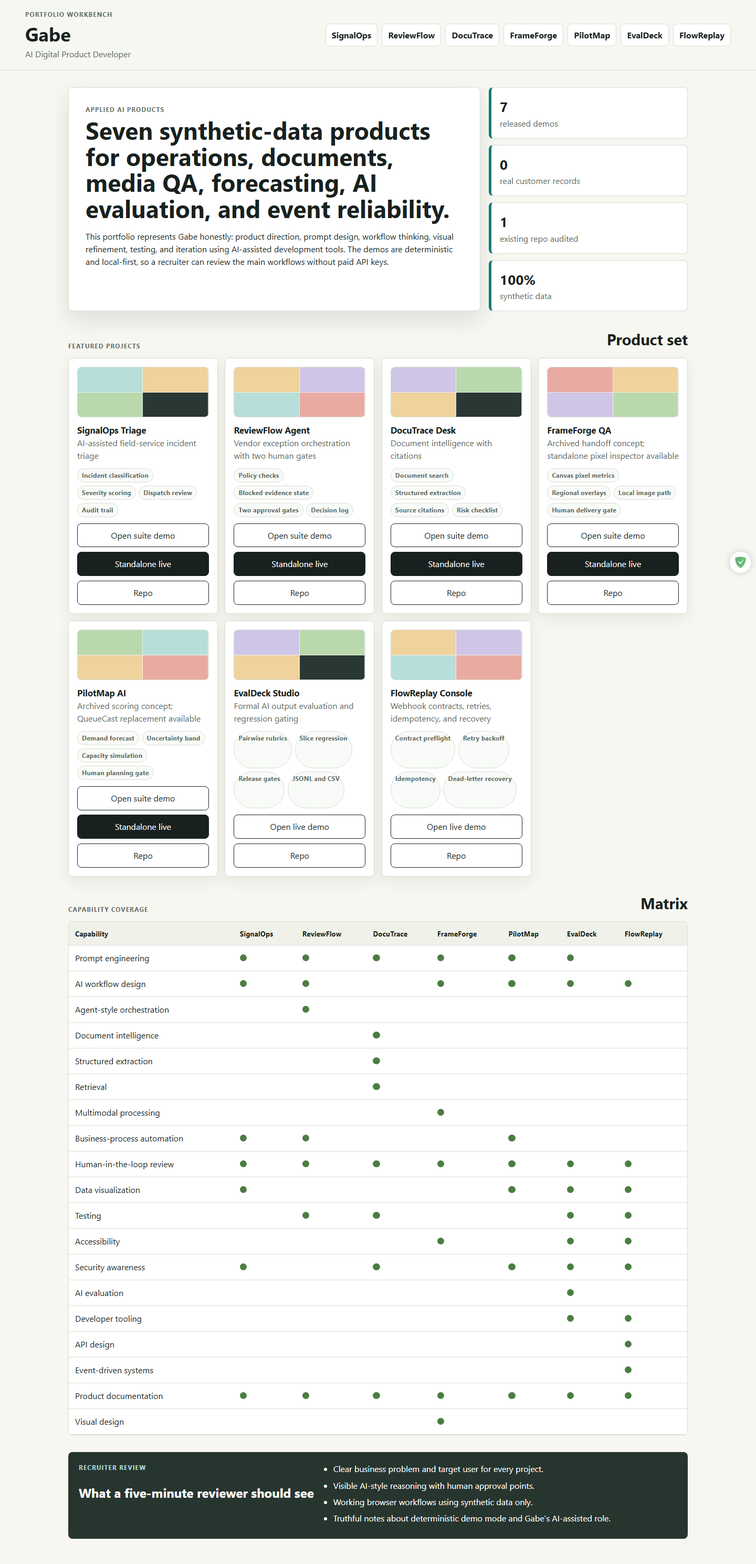
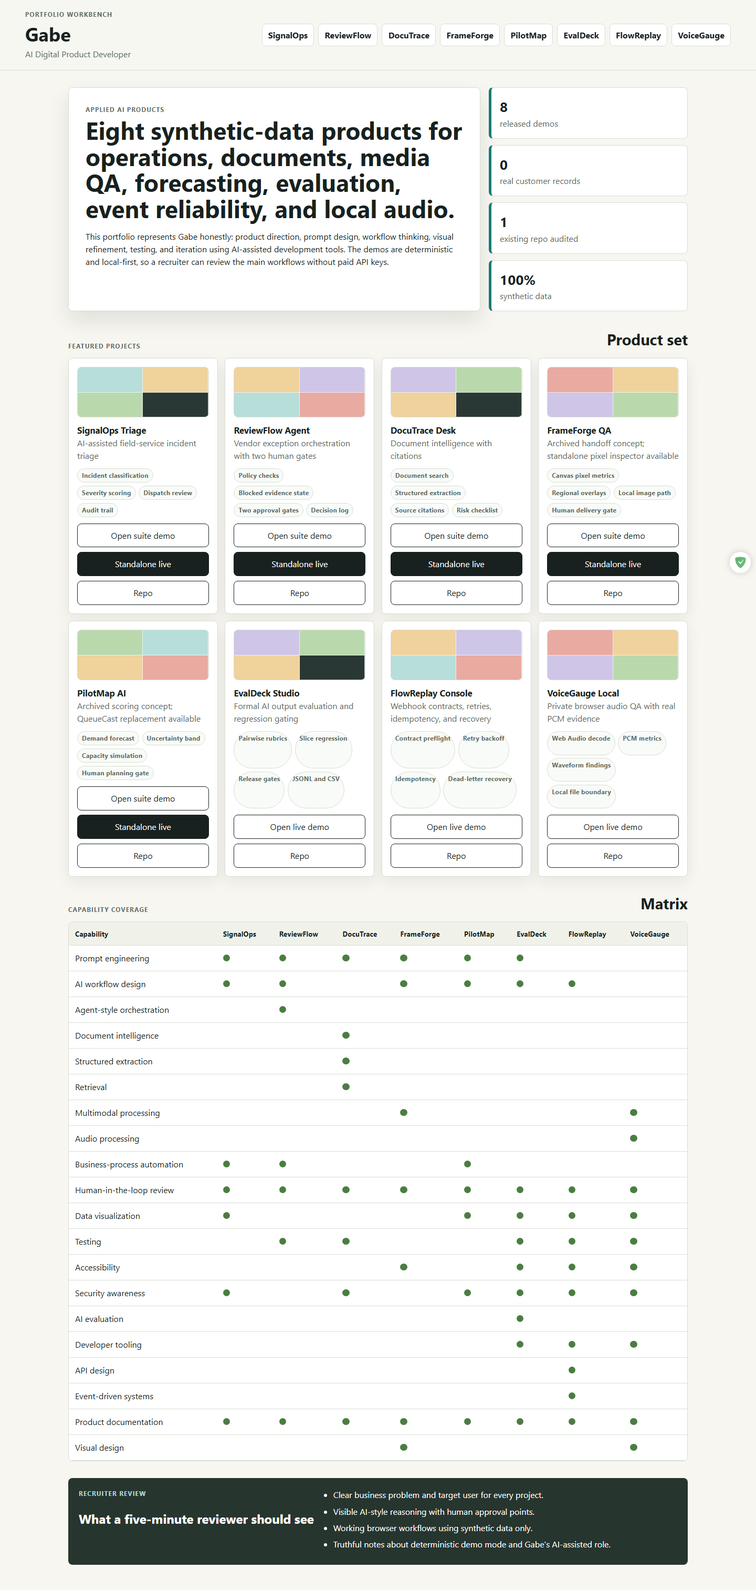
feat: integrate VoiceGauge into portfolio

diff --git a/index.html b/index.html
@@ -4,7 +4,7 @@
   <meta charset="utf-8">
   <meta name="viewport" content="width=device-width, initial-scale=1">
   <title>Gabe - AI Digital Product Developer</title>
-  <meta name="description" content="Seven truthful AI-assisted digital product demos spanning operations, documents, media QA, forecasting, evaluation, and event reliability.">
+  <meta name="description" content="Eight truthful AI-assisted digital product demos spanning operations, documents, media, forecasting, evaluation, event reliability, and local audio QA.">
   <link rel="stylesheet" href="assets/styles.css">
 </head>
 <body data-page="portfolio">
@@ -23,6 +23,7 @@
       <a href="projects/pilotmap-ai/index.html">PilotMap</a>
       <a href="https://jubjub-cpu.github.io/evaldeck-studio/">EvalDeck</a>
       <a href="https://jubjub-cpu.github.io/flowreplay-console/">FlowReplay</a>
+      <a href="https://jubjub-cpu.github.io/voicegauge-local/">VoiceGauge</a>
     </nav>
   </header>
 
@@ -30,14 +31,14 @@
     <section class="intro-grid" aria-labelledby="portfolio-title">
       <div class="intro-copy">
         <p class="eyebrow">Applied AI products</p>
-        <h2 id="portfolio-title">Seven synthetic-data products for operations, documents, media QA, forecasting, AI evaluation, and event reliability.</h2>
+        <h2 id="portfolio-title">Eight synthetic-data products for operations, documents, media QA, forecasting, evaluation, event reliability, and local audio.</h2>
         <p>
           This portfolio represents Gabe honestly: product direction, prompt design, workflow thinking, visual refinement, testing, and iteration using AI-assisted development tools.
           The demos are deterministic and local-first, so a recruiter can review the main workflows without paid API keys.
         </p>
       </div>
       <div class="audit-strip" aria-label="Portfolio audit summary">
-        <div><strong>7</strong><span>released demos</span></div>
+        <div><strong>8</strong><span>released demos</span></div>
         <div><strong>0</strong><span>real customer records</span></div>
         <div><strong>1</strong><span>existing repo audited</span></div>
         <div><strong>100%</strong><span>synthetic data</span></div>

diff --git a/assets/portfolio.js b/assets/portfolio.js
@@ -9,6 +9,7 @@
     "Structured extraction",
     "Retrieval",
     "Multimodal processing",
+    "Audio processing",
     "Business-process automation",
     "Human-in-the-loop review",
     "Data visualization",
@@ -135,6 +136,22 @@
       oversight: "No endpoint is contacted; a human must provide a recovery reason before the simulated replay is recorded.",
       features: ["Contract preflight", "Retry backoff", "Idempotency", "Dead-letter recovery"],
       capabilities: ["AI workflow design", "Human-in-the-loop review", "Data visualization", "Testing", "Accessibility", "Security awareness", "Developer tooling", "API design", "Event-driven systems", "Product documentation"]
+    },
+    voicegauge: {
+      name: "VoiceGauge Local",
+      shortName: "VoiceGauge",
+      subtitle: "Private browser audio QA with real PCM evidence",
+      path: "https://jubjub-cpu.github.io/voicegauge-local/",
+      pathLabel: "Open live demo",
+      standaloneRepo: "https://github.com/jubjub-cpu/voicegauge-local",
+      standaloneRelease: "https://github.com/jubjub-cpu/voicegauge-local/releases/tag/v1.0.0",
+      accent: "coral",
+      problem: "Audio teams need an immediate first pass for clipping, level, silence, and background signal without uploading sensitive recordings.",
+      user: "Content operations teams, media producers, contact-center QA leads, accessibility teams, and creators",
+      ai: "Decodes actual audio locally, measures six transparent PCM metrics, maps timed waveform findings, and compares the source with a generated clear baseline.",
+      oversight: "No transcription or identity inference runs; accepting audio with findings requires written human evidence.",
+      features: ["Web Audio decode", "PCM metrics", "Waveform findings", "Local file boundary"],
+      capabilities: ["Multimodal processing", "Audio processing", "Human-in-the-loop review", "Data visualization", "Testing", "Accessibility", "Security awareness", "Developer tooling", "Product documentation", "Visual design"]
     }
   };
 

diff --git a/docs/FINAL_PORTFOLIO_REPORT.md b/docs/FINAL_PORTFOLIO_REPORT.md
@@ -2,7 +2,7 @@
 
 ## Executive Summary
 
-The five-project foundation is complete and the portfolio has expanded to seven released products with EvalDeck Studio and FlowReplay Console, the first two Phase Two releases. The published work includes runnable synthetic-data demos, central documentation, a capability matrix, case studies, validation checks, screenshots, closed milestone issues, and versioned GitHub releases.
+The five-project foundation is complete and the portfolio has expanded to eight released products with EvalDeck Studio, FlowReplay Console, and VoiceGauge Local, the first three Phase Two releases. The published work includes runnable synthetic-data demos, central documentation, a capability matrix, case studies, validation checks, screenshots, closed milestone issues, and versioned GitHub releases.
 
 ## Gabe's Portfolio Positioning
 
@@ -19,6 +19,7 @@ Gabe is positioned as an AI Digital Product Developer who uses AI-assisted devel
 | QueueCast Planner | [Archived PilotMap concept](https://jubjub-cpu.github.io/gabe-ai-product-portfolio/projects/pilotmap-ai/) / [Standalone demo](https://jubjub-cpu.github.io/queuecast-planner/) | Service teams need uncertainty-aware capacity scenarios. | Workforce planners | Trend forecast, residual uncertainty, five-assumption simulation, weekly risk, staffing brief, human decision. | Static HTML/CSS/JS and Canvas | Logic, repository, local browser, and deployed browser checks passed | Standalone v1.0.0 published |
 | EvalDeck Studio | [Standalone demo](https://jubjub-cpu.github.io/evaldeck-studio/) | AI product changes need repeatable quality and safety evidence before release. | AI product engineers and QA leads | Pairwise rubric scoring, slice regressions, reference disagreement, configurable gates, reasoned overrides, portable artifacts. | Static HTML/CSS/JS and Canvas | Logic, import/export, repository, local browser, and deployed browser checks passed | Standalone v1.0.0 published |
 | FlowReplay Console | [Standalone demo](https://jubjub-cpu.github.io/flowreplay-console/) | Webhook failures need visible contract, retry, duplicate, and recovery evidence. | API product engineers and integration developers | Versioned contract preflight, retry/backoff, failure injection, idempotent no-ops, dead-letter recovery, human replay approval. | Static HTML/CSS/JS and Canvas | Engine, import/export, repository, local browser, and deployed browser checks passed | Standalone v1.0.0 published |
+| VoiceGauge Local | [Standalone demo](https://jubjub-cpu.github.io/voicegauge-local/) | Audio teams need a private first pass for clipping, silence, level, and background signal. | Content QA leads, producers, and creators | Real Web Audio decoding, PCM metrics, waveform findings, threshold policy, baseline comparison, local import, human handoff decision. | Static HTML/CSS/JS, Web Audio, and Canvas | Engine, generated fixtures, import/export, repository, local browser, and deployed browser checks passed | Standalone v1.0.0 published |
 
 ## Capability Matrix
 
@@ -37,15 +38,15 @@ The profile README links to the live portfolio and truthfully describes Gabe's A
 1. `gabe-ai-product-portfolio`
 2. `evaldeck-studio`
 3. `flowreplay-console`
-4. `doctrace-desk`
-5. `frameforge-inspect`
-6. `queuecast-planner`
+4. `voicegauge-local`
+5. `doctrace-desk`
+6. `frameforge-inspect`
 
 ## Testing Summary
 
 - `PORTFOLIO VALIDATION PASSED`
 - Browser render checks passed.
-- Interaction checks passed for all five suite workflows plus EvalDeck's regression workflow and FlowReplay's event-recovery workflow.
+- Interaction checks passed for all five suite workflows plus EvalDeck's regression, FlowReplay's event-recovery, and VoiceGauge's local audio workflows.
 - Mobile central portfolio check passed at 390 px.
 - No browser console errors observed.
 
@@ -103,6 +104,10 @@ Standalone FlowReplay Console deployment: https://jubjub-cpu.github.io/flowrepla
 
 Standalone FlowReplay Console release: https://github.com/jubjub-cpu/flowreplay-console/releases/tag/v1.0.0
 
+Standalone VoiceGauge Local deployment: https://jubjub-cpu.github.io/voicegauge-local/
+
+Standalone VoiceGauge Local release: https://github.com/jubjub-cpu/voicegauge-local/releases/tag/v1.0.0
+
 ## Privacy and Security Summary
 
 All product data is fictional or synthetic. No real customer records, payment-card records, credentials, private communications, employee data, or production logs are included. The validation script scans for common secret patterns.
@@ -111,7 +116,7 @@ All product data is fictional or synthetic. No real customer records, payment-ca
 
 - Pin `gabe-ai-product-portfolio` on the GitHub profile manually. The available GitHub GraphQL schema did not expose a repository-pinning mutation in this environment.
 - Apply the six-repository recommendation in `docs/PORTFOLIO_STRATEGY.md` manually; repository pinning is not exposed by the available API.
-- Build the remaining three selected Phase Two products in `PHASE_TWO_CANDIDATES.md`.
+- Build the remaining two selected Phase Two products in `PHASE_TWO_CANDIDATES.md`.
 
 ## Next Projects
 
@@ -119,4 +124,4 @@ See `NEXT_5_PROJECTS.md`.
 
 ## Suggested Next Career Step
 
-Use the central portfolio plus EvalDeck, FlowReplay, DocuTrace, and FrameForge to apply for AI product, evaluation, developer tooling, workflow automation, document intelligence, and operations-focused prototype roles while continuing Phase Two.
+Use the central portfolio plus EvalDeck, FlowReplay, VoiceGauge, and DocuTrace to apply for AI product, evaluation, developer tooling, media intelligence, workflow automation, and document intelligence roles while continuing Phase Two.

diff --git a/README.md b/README.md
@@ -1,6 +1,6 @@
 # Gabe - AI Digital Product Developer Portfolio
 
-This portfolio features seven complete, local-first AI digital products that show practical workflow design, prompt-shaped reasoning, formal evaluation, event reliability, human review, synthetic data, and recruiter-friendly product documentation.
+This portfolio features eight complete, local-first AI digital products that show practical workflow design, prompt-shaped reasoning, formal evaluation, event reliability, real browser media processing, human review, synthetic data, and recruiter-friendly product documentation.
 
 ## Overview
 
@@ -19,6 +19,7 @@ The portfolio does not claim traditional software engineering employment, produc
 | QueueCast Planner | Service teams need visible demand uncertainty and capacity tradeoffs before staffing decisions. | Explainable trend, uncertainty band, five-assumption simulation, weekly risk, staffing brief, human planning gate. | [Archived PilotMap concept](https://jubjub-cpu.github.io/gabe-ai-product-portfolio/projects/pilotmap-ai/) / [Standalone](https://jubjub-cpu.github.io/queuecast-planner/) |
 | EvalDeck Studio | AI product teams need repeatable evidence before prompt or model changes ship. | Four pairwise rubrics, slice regressions, reference disagreement, configurable gates, reasoned overrides, JSONL/JSON/CSV artifacts. | [Standalone](https://jubjub-cpu.github.io/evaldeck-studio/) |
 | FlowReplay Console | Integration teams need to distinguish contract drift, transient failures, duplicates, and dead-letter recovery before replaying webhooks. | Versioned contracts, response classification, retry backoff, failure injection, idempotent no-ops, reasoned replay approval, JSON evidence. | [Standalone](https://jubjub-cpu.github.io/flowreplay-console/) |
+| VoiceGauge Local | Audio teams need a private first pass for clipping, level, silence, and background signal. | Real Web Audio decoding, six PCM metrics, timed Canvas findings, baseline comparison, local upload, threshold policy, human handoff gate. | [Standalone](https://jubjub-cpu.github.io/voicegauge-local/) |
 
 ## Business Problem
 
@@ -34,7 +35,7 @@ Each demo uses deterministic browser logic to simulate AI-style workflow support
 
 ## Main Features
 
-- Seven released product demos with synthetic data.
+- Eight released product demos with synthetic data.
 - Central portfolio page with project cards and capability matrix.
 - Human-in-the-loop review points in every product.
 - Recruiter-facing documentation, roadmap, scorecard, state tracking, blocker tracking, and case studies.
@@ -82,6 +83,10 @@ Current screenshots captured from the implemented local app:
 ![Standalone FlowReplay desktop](docs/screenshots/flowreplay-standalone-desktop.png)
 
 ![Standalone FlowReplay mobile](docs/screenshots/flowreplay-standalone-mobile.png)
+
+![Standalone VoiceGauge desktop](docs/screenshots/voicegauge-standalone-desktop.png)
+
+![Standalone VoiceGauge mobile](docs/screenshots/voicegauge-standalone-mobile.png)
 
 ![Mobile portfolio](docs/screenshots/portfolio-mobile.png)
 
@@ -145,6 +150,12 @@ Standalone FlowReplay Console:
 - [Repository](https://github.com/jubjub-cpu/flowreplay-console)
 - [v1.0.0 release](https://github.com/jubjub-cpu/flowreplay-console/releases/tag/v1.0.0)
 
+Standalone VoiceGauge Local:
+
+- [Live demo](https://jubjub-cpu.github.io/voicegauge-local/)
+- [Repository](https://github.com/jubjub-cpu/voicegauge-local)
+- [v1.0.0 release](https://github.com/jubjub-cpu/voicegauge-local/releases/tag/v1.0.0)
+
 Local fallback:
 
 ```text
@@ -162,6 +173,7 @@ The demos show AI product patterns without pretending a paid model is running:
 - Responsible AI opportunity scoring.
 - Formal AI-output evaluation, regression analysis, and release gating.
 - API contracts, event retries, idempotency, failure injection, and dead-letter recovery.
+- Web Audio decoding, PCM signal analysis, waveform overlays, and local audio privacy.
 
 ## Human Oversight
 
@@ -242,12 +254,12 @@ powershell -ExecutionPolicy Bypass -File .\tests\portfolio-validation.ps1
 Latest local validation:
 
 - `PORTFOLIO VALIDATION PASSED`
-- Browser smoke test: all five suite workflows plus the EvalDeck and FlowReplay integrations rendered.
+- Browser smoke test: all five suite workflows plus the EvalDeck, FlowReplay, and VoiceGauge integrations rendered.
 - Interaction test: SignalOps approval, ReviewFlow approval, DocuTrace citations, FrameForge revision review, and PilotMap scoring all responded.
-- Mobile check: central portfolio rendered with seven project cards at 390 px width.
+- Mobile check: central portfolio rendered with eight project cards at 390 px width.
 - Browser console errors: none observed.
 
-The repeatable browser integration check verifies the seven-card desktop and mobile layouts plus the standalone foundation, EvalDeck, and FlowReplay public links.
+The repeatable browser integration check verifies the eight-card desktop and mobile layouts plus the standalone foundation, EvalDeck, FlowReplay, and VoiceGauge public links.
 
 ## Deployment
 
@@ -272,7 +284,7 @@ The recruiter-review path does not require a backend or paid API.
 ## Future Improvements
 
 - Add optional bring-your-own-key AI integrations.
-- Build the remaining three selected Phase Two products in `PHASE_TWO_CANDIDATES.md`.
+- Build the remaining two selected Phase Two products in `PHASE_TWO_CANDIDATES.md`.
 - Add live API-backed variants only when privacy, cost, and security boundaries are clear.
 
 ## AI-Assisted Development

diff --git a/PROJECT_NOVELTY_MATRIX.md b/PROJECT_NOVELTY_MATRIX.md
@@ -15,6 +15,7 @@ This matrix compares the completed foundation, released Phase Two products, and 
 | QueueCast Planner, standalone replacement | Service teams need honest staffing scenarios under uncertain demand | Service operations | Workforce planner | Forecast demand, adjust five assumptions, compare weekly risk, adopt scenario | Time-series demand and aggregate staffing assumptions | Trend forecast, residual uncertainty, scenario simulation | Capacity range, risk weeks, staffing brief, JSON record | Interactive planning board with Canvas chart | Modular deterministic browser simulation | GitHub Pages | Planner owns staffing decision | Logic, Canvas, local and deployed browser checks | Quantitative decision support and uncertainty |
 | EvalDeck Studio, standalone | Prompt or model changes can hide regressions | AI quality engineering | AI product engineer and QA lead | Load suite, compare outputs, inspect rubrics and slices, resolve disagreement, apply gate, decide release | JSONL prompts, outputs, rules, and reference scores | Deterministic pairwise evaluation and regression analysis | Rubric evidence, slice metrics, gate decision, JSON and CSV reports | Evaluation table, diff workbench, and aggregate chart | Modular local-first static app | GitHub Pages | Reasoned override and final release approval | Logic, import/export, local and deployed browser checks | Formal evaluation and developer tooling |
 | FlowReplay Console, standalone | Webhook failures hide contract, retry, and duplicate-side-effect risk | Developer infrastructure | API product engineer and integration developer | Inspect event, validate contract, inject failure, model retries, approve replay, review audit | Synthetic event JSON, versioned contracts, endpoints, attempts, and idempotency keys | Contract preflight, response classification, retry/backoff simulation, idempotency, replay planning | Attempt evidence, terminal outcome, HTTP preview, replay event, JSON report | Event rail, Canvas timeline, evidence tabs, replay builder, contract registry | Modular local-first static app | GitHub Pages | Recovery reason and explicit replay approval | Engine, import/export, Canvas, local and deployed browser checks | API design and event-driven developer tooling |
+| VoiceGauge Local, standalone | Audio defects need a private first pass before handoff | Media operations | Content QA lead, producer, and creator | Decode source, inspect metrics and waveform, compare baseline, tune policy, decide handoff | Generated WAV fixtures or local browser-supported audio | Real local PCM analysis with deterministic quality findings | Six metrics, timed overlays, baseline deltas, human decision, JSON report | Audio library, native player, Canvas waveform, policy controls, comparison table | Modular local-first static app with Web Audio | GitHub Pages | Written evidence for accepted findings and explicit re-record action | Engine, fixture, Web Audio, import/export, Canvas, local and deployed browser checks | Audio processing and privacy-first multimodal work |
 
 ## Closest-Project Checks
 

diff --git a/PORTFOLIO_CAPABILITY_LEDGER.md b/PORTFOLIO_CAPABILITY_LEDGER.md
@@ -13,7 +13,7 @@ Status key: **Strong** = implemented and directly testable; **Partial** = visibl
 | Agent-style orchestration | Partial | Missing | Strong | Missing | Missing | Strong |
 | Human approval | Strong | Strong | Strong | Strong | Partial | Strong |
 | Computer vision | Missing | Missing | Missing | Strong | Missing | Strong |
-| Audio processing | Missing | Missing | Missing | Missing | Missing | Missing |
+| Audio processing | Missing | Missing | Missing | Missing | Missing | Strong via VoiceGauge |
 | Semantic search | Missing | Mentioned | Missing | Missing | Missing | Mentioned |
 | Forecasting | Missing | Missing | Missing | Missing | Strong | Strong |
 | Anomaly detection | Partial | Missing | Missing | Missing | Missing | Partial |
@@ -39,7 +39,7 @@ Status key: **Strong** = implemented and directly testable; **Partial** = visibl
 | FrameForge Inspect | Rebuilt substantially | Standalone v1.0.0 with actual Canvas pixel metrics, generated PNG fixtures, regional overlays, local file processing, comparison, human decision, export, and deployed tests |
 | QueueCast Planner | Replaced PilotMap | Standalone v1.0.0 with trend forecasting, residual uncertainty, five scenario assumptions, weekly capacity risk, Canvas visualization, human adoption, export, and deployed tests |
 
-The remaining Phase Two wave must add audio, anomaly detection, background monitoring, and privacy-preserving processing; evaluation, developer tooling, and API/event-system gaps are now covered.
+The remaining Phase Two wave must add anomaly detection, background monitoring, and privacy-preserving text processing; evaluation, developer tooling, API/event systems, and audio gaps are now covered.
 
 ## Phase Two Evidence
 
@@ -47,3 +47,4 @@ The remaining Phase Two wave must add audio, anomaly detection, background monit
 | --- | --- | --- |
 | EvalDeck Studio | Formal AI-output evaluation, developer tooling, pairwise regression, slice metrics, disagreement review, release gates, JSONL import, JSON/CSV artifacts | Standalone v1.0.0 with logic, repository, local browser, deployed browser, privacy, accessibility, screenshot, issue, and release evidence |
 | FlowReplay Console | Versioned webhook contracts, response classification, retries and backoff, deterministic failure injection, idempotency, dead-letter recovery, replay audit, local JSON artifacts | Standalone v1.0.0 with engine, repository, local browser, deployed browser, Canvas, privacy, accessibility, screenshot, issue, and release evidence |
+| VoiceGauge Local | Real Web Audio decoding, generated WAV fixtures, PCM peak/RMS/clipping/silence/quiet-floor/pause metrics, Canvas overlays, baseline comparison, local import, human delivery gate | Standalone v1.0.0 with audio engine, fixture generation, repository, local browser, deployed browser, content-type, privacy, accessibility, screenshot, issue, and release evidence |

diff --git a/PORTFOLIO_STATE.md b/PORTFOLIO_STATE.md
@@ -4,13 +4,13 @@
 | --- | --- |
 | Current phase | Phase Two: net-new expansion wave |
 | Current expansion wave | Five selected products after twelve-candidate scoring |
-| Current project | VoiceGauge Local |
-| Current repository | Central: `jubjub-cpu/gabe-ai-product-portfolio`; next planned: `jubjub-cpu/voicegauge-local` |
+| Current project | ColdChain Sentinel |
+| Current repository | Central: `jubjub-cpu/gabe-ai-product-portfolio`; next planned: `jubjub-cpu/coldchain-sentinel` |
 | Current branch | `main` |
-| Current issue | VoiceGauge kickoff issue is the next GitHub milestone |
-| Last completed action | Released FlowReplay Console with versioned contracts, retries, failure injection, idempotency, dead-letter recovery, deployed tests, and issues 1-3 closed |
-| Tests last run | FlowReplay standalone checks passed; central seven-card validation, desktop/mobile browser, overflow, console, request, screenshot, and privacy checks passed locally |
+| Current issue | ColdChain kickoff issue is the next GitHub milestone |
+| Last completed action | Released VoiceGauge Local with generated WAVs, real Web Audio decoding, PCM metrics, waveform findings, local import, human gate, deployed tests, and issues 1-3 closed |
+| Tests last run | VoiceGauge standalone checks passed; central eight-card validation, desktop/mobile browser, overflow, console, request, screenshot, and privacy checks passed locally |
 | Active failures | None |
 | Active blocker | Optional GitHub Actions workflow cannot be added with the current token because it lacks workflow scope; checked-in local and deployed validation remains available |
-| Uncommitted changes | None after the FlowReplay integration checkpoint is committed |
-| Exact next action | Publish and verify the FlowReplay integration, then create `jubjub-cpu/voicegauge-local` and its kickoff issue |
+| Uncommitted changes | None after the VoiceGauge integration checkpoint is committed |
+| Exact next action | Publish and verify the VoiceGauge integration, then create `jubjub-cpu/coldchain-sentinel` and its kickoff issue |

diff --git a/docs/GITHUB_PROFILE_README.md b/docs/GITHUB_PROFILE_README.md
@@ -22,6 +22,8 @@ My current focus is AI-assisted development, prompt engineering, workflow design
 - **EvalDeck Repository:** https://github.com/jubjub-cpu/evaldeck-studio
 - **Standalone FlowReplay:** https://jubjub-cpu.github.io/flowreplay-console/
 - **FlowReplay Repository:** https://github.com/jubjub-cpu/flowreplay-console
+- **Standalone VoiceGauge:** https://jubjub-cpu.github.io/voicegauge-local/
+- **VoiceGauge Repository:** https://github.com/jubjub-cpu/voicegauge-local
 
 | Project | What It Demonstrates |
 | --- | --- |
@@ -32,6 +34,7 @@ My current focus is AI-assisted development, prompt engineering, workflow design
 | QueueCast Planner | Explainable demand forecasting, residual uncertainty, five-assumption capacity simulation, weekly risk, and a human planning gate. |
 | EvalDeck Studio | Formal AI-output evaluation with pairwise rubrics, slice regressions, reference disagreement, configurable release gates, and reasoned human overrides. |
 | FlowReplay Console | Webhook reliability tooling with versioned contracts, retry/backoff simulation, failure injection, idempotent no-ops, dead-letter recovery, and a human replay gate. |
+| VoiceGauge Local | Privacy-first Web Audio QA with generated WAV fixtures, six real PCM metrics, waveform findings, baseline comparison, local import, and a human handoff gate. |
 
 ## AI Patterns
 
@@ -48,6 +51,7 @@ My current focus is AI-assisted development, prompt engineering, workflow design
 - AI evaluation, regression analysis, and release gating
 - Local-first developer tooling and portable evaluation artifacts
 - API contracts, event-driven retries, idempotency, and dead-letter recovery
+- Web Audio, local PCM analysis, waveform visualization, and privacy-first media processing
 
 ## Current Learning Focus
 

diff --git a/DECISIONS.md b/DECISIONS.md
@@ -17,3 +17,4 @@
 | 2026-07-17 | QueueCast | Release QueueCast Planner as v1.0.0 and preserve PilotMap only as an embedded archive. | Expand generic opportunity scoring; add another recommendation workflow. | QueueCast adds transparent forecasting, uncertainty, capacity simulation, quantitative visualization, and staffing tradeoffs without worker data or employment actions. | Phase One is complete; Phase Two candidate scoring begins immediately. |
 | 2026-07-18 | EvalDeck | Release EvalDeck Studio as the first Phase Two product. | Start with event tooling; use a hosted judge model. | A deterministic evaluator makes formal rubrics, regressions, slice failures, disagreement, overrides, and release policy observable without API cost or customer outputs. | Phase Two is 1 of 5 complete; FlowReplay Console becomes next. |
 | 2026-07-17 | FlowReplay | Release FlowReplay Console as the second Phase Two product. | Build a generic API request tester; connect to live endpoints. | Versioned contracts, retry classes, backoff, failure injection, idempotent no-ops, and reasoned dead-letter recovery show event-system judgment without credentials or production traffic. | Phase Two is 2 of 5 complete; VoiceGauge Local becomes next. |
+| 2026-07-17 | VoiceGauge | Release VoiceGauge Local as the third Phase Two product without transcription. | Use stock voice clips; call a hosted speech API. | Generated WAVs plus real browser decoding make audio processing testable while avoiding voice privacy, biometric, and model-cost claims. | Phase Two is 3 of 5 complete; ColdChain Sentinel becomes next. |

diff --git a/PHASE_TWO_CANDIDATES.md b/PHASE_TWO_CANDIDATES.md
@@ -6,7 +6,7 @@ Scoring dimensions are business clarity, novelty versus the foundation, missing-
 | --- | --- | --- | --- | --- | ---: | ---: | ---: | ---: | ---: | ---: | ---: | --- |
 | EvalDeck Studio | AI quality engineering | JSONL prompts and outputs | Evaluation table and diff | Rubrics, pairwise evaluation, regression suites | 5 | 5 | 5 | 5 | 5 | 5 | 30 | Complete: v1.0.0 |
 | FlowReplay Console | Developer infrastructure | Webhook events and API schemas | Event timeline and contract console | API design, replay, idempotency, failure injection | 5 | 5 | 5 | 4 | 5 | 5 | 29 | Complete: v1.0.0 |
-| VoiceGauge Local | Customer-support QA | Local audio waveform | Waveform timeline | Audio processing, privacy, silence and clipping analysis | 5 | 5 | 5 | 4 | 5 | 5 | 29 | Select 3 |
+| VoiceGauge Local | Customer-support QA | Local audio waveform | Waveform timeline | Audio processing, privacy, silence and clipping analysis | 5 | 5 | 5 | 4 | 5 | 5 | 29 | Complete: v1.0.0 |
 | ColdChain Sentinel | Logistics | Sensor telemetry | Monitoring board and route view | Multivariate anomaly detection and incident evidence | 5 | 5 | 4 | 5 | 5 | 5 | 29 | Select 4 |
 | CivicCase Redact | Public services | Case-note text spans | Split editor and review queue | Local-first privacy, PII rules, reversible review | 5 | 4 | 5 | 5 | 5 | 5 | 29 | Select 5 |
 | GrantGuard Evidence | Nonprofit compliance | Grant documents | Evidence checklist | Compliance extraction and citations | 4 | 2 | 2 | 5 | 4 | 5 | 22 | Reject: close to DocuTrace |

diff --git a/PORTFOLIO_ROADMAP.md b/PORTFOLIO_ROADMAP.md
@@ -9,6 +9,7 @@
 | 5 | QueueCast Planner | Forecasting and capacity simulation | Service teams need uncertainty-aware staffing scenarios. | Workforce planners | Standalone complete | [Standalone repository](https://github.com/jubjub-cpu/queuecast-planner) | [Standalone demo](https://jubjub-cpu.github.io/queuecast-planner/) | v1.0.0 | None | Feature and maintain; keep embedded PilotMap as archive |
 | 6 | EvalDeck Studio | AI quality engineering | Prompt and model changes need repeatable regression evidence. | AI product engineers and QA leads | Standalone complete | [Standalone repository](https://github.com/jubjub-cpu/evaldeck-studio) | [Standalone demo](https://jubjub-cpu.github.io/evaldeck-studio/) | v1.0.0 | None | Feature and maintain |
 | 7 | FlowReplay Console | Developer infrastructure | Webhook failures need contract, retry, idempotency, and replay evidence. | API product engineers and integration developers | Standalone complete | [Standalone repository](https://github.com/jubjub-cpu/flowreplay-console) | [Standalone demo](https://jubjub-cpu.github.io/flowreplay-console/) | v1.0.0 | None | Feature and maintain |
+| 8 | VoiceGauge Local | Audio intelligence | Audio teams need local signal evidence before handoff. | Content QA leads, producers, and creators | Standalone complete | [Standalone repository](https://github.com/jubjub-cpu/voicegauge-local) | [Standalone demo](https://jubjub-cpu.github.io/voicegauge-local/) | v1.0.0 | None | Feature and maintain |
 
 ## Inventory Classification
 

diff --git a/docs/PORTFOLIO_STRATEGY.md b/docs/PORTFOLIO_STRATEGY.md
@@ -14,7 +14,7 @@ The completed five-product foundation covers the requested categories:
 4. Multimodal or creative media product: FrameForge QA.
 5. AI opportunity and workflow design: PilotMap AI.
 
-Phase Two expands the foundation with distinct standalone products. EvalDeck Studio adds formal AI-output evaluation, regression analysis, and auditable release gates. FlowReplay Console adds API design, versioned contracts, event retries, failure injection, idempotency, and reasoned dead-letter recovery.
+Phase Two expands the foundation with distinct standalone products. EvalDeck Studio adds formal AI-output evaluation and release gates. FlowReplay Console adds API design, event retries, and idempotency. VoiceGauge Local adds real browser audio decoding, PCM analysis, visual signal evidence, and a strict local-file privacy boundary.
 
 ## Why Static First
 
@@ -34,6 +34,6 @@ When repositories are available, pin:
 1. `gabe-ai-product-portfolio`
 2. `evaldeck-studio`
 3. `flowreplay-console`
-4. `doctrace-desk`
-5. `frameforge-inspect`
-6. `queuecast-planner`
+4. `voicegauge-local`
+5. `doctrace-desk`
+6. `frameforge-inspect`
